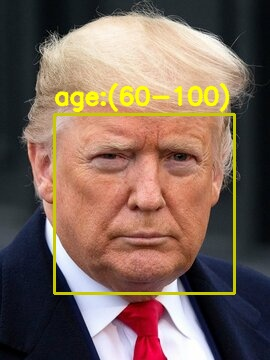
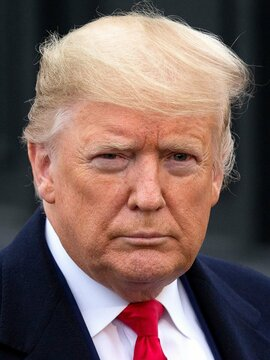
4.3_1.2

Changed region(s): [[0.1778, 0.2139, 0.8889, 0.825]]

diff --git a/templates/result.html b/templates/result.html
@@ -21,7 +21,7 @@
                     <form runat="server">
                         <div class="col-lg-6" style="float:none;margin:auto;">
                         <h2 style=" text-align: center;">
-                            age :  <b> {{ age }} </b> <br>
+                            predicted age :  <b> {{ age }} </b> <br>
                             <!-- emotion :  <b> {{ emotion }} </b> <br> -->
                             <!-- gender : <b> {{ gender }} </b> <br> -->
                         </h2>

diff --git a/app.py b/app.py
@@ -1,14 +1,16 @@
 import os
-# os.environ['TF_ENABLE_ONEDNN_OPTS'] = '0'
+os.environ['TF_ENABLE_ONEDNN_OPTS'] = '0'
 import cv2.data
 from flask import Flask , render_template , request, redirect,session , url_for , make_response
 import cv2
 import asyncio
-import dlib
+# import dlib
 from sqlmodel import Field , SQLModel ,Session , select , create_engine
 from pydantic import BaseModel
 from ultralytics import YOLO
 import bcrypt
+from deepface import DeepFace
+import asgiref
 
 # we used pydantic to """ check user information validation automatically""" 
 # without pydantic we had to use lots of if condition to check them .
@@ -43,8 +45,7 @@ class User(SQLModel , table=True):
 
 
 
-global flag 
-flag = False
+
 app =Flask("face analysis")
 app.config["UPLOAD_FOLDER"] = "static/uploads/" # folder which uploaded file will be saved in
 app.config["ALLOWED_EXTENSIONS"] = {"png" , "jpg" , "jpeg"}
@@ -67,7 +68,7 @@ def allowed_files(filename):
     return True
 
 
-def predictor(upload_path):
+# def predictor(upload_path):
     img = cv2.imread(upload_path) 
     frame = img.copy() 
 
@@ -219,7 +220,7 @@ def logout():
 
 
 @app.route("/upload" , methods=["GET" ,"POST"])
-def upload() :
+async def upload() :
     if request.method == "GET" :
         return make_response(render_template("upload.html"))
     elif request.method == "POST" :
@@ -233,10 +234,14 @@ def upload() :
                     user_image.save(upload_path) # save image in this path
                     upload_path  = str(upload_path)  
                     print(upload_path) 
-                    image = cv2.imread(filename=upload_path)
-                    final_image , age =  predictor(upload_path)
+                    img = cv2.imread(upload_path)
+                    # final_image , age =  predictor(upload_path)
+                    result = DeepFace.analyze(img_path = img, actions = ['age'] ,  enforce_detection=False, silent=True)
+                    asyncio.sleep(13)
+                    age = result[0]['age']
+                    
                     save_path = os.path.join("static/uploads/", user_image.filename)
-                    cv2.imwrite(save_path, final_image)              
+                    cv2.imwrite(save_path, img)              
                     result = make_response(render_template("result.html" ,image_link= save_path ,  age=age ))
                     return result
 
